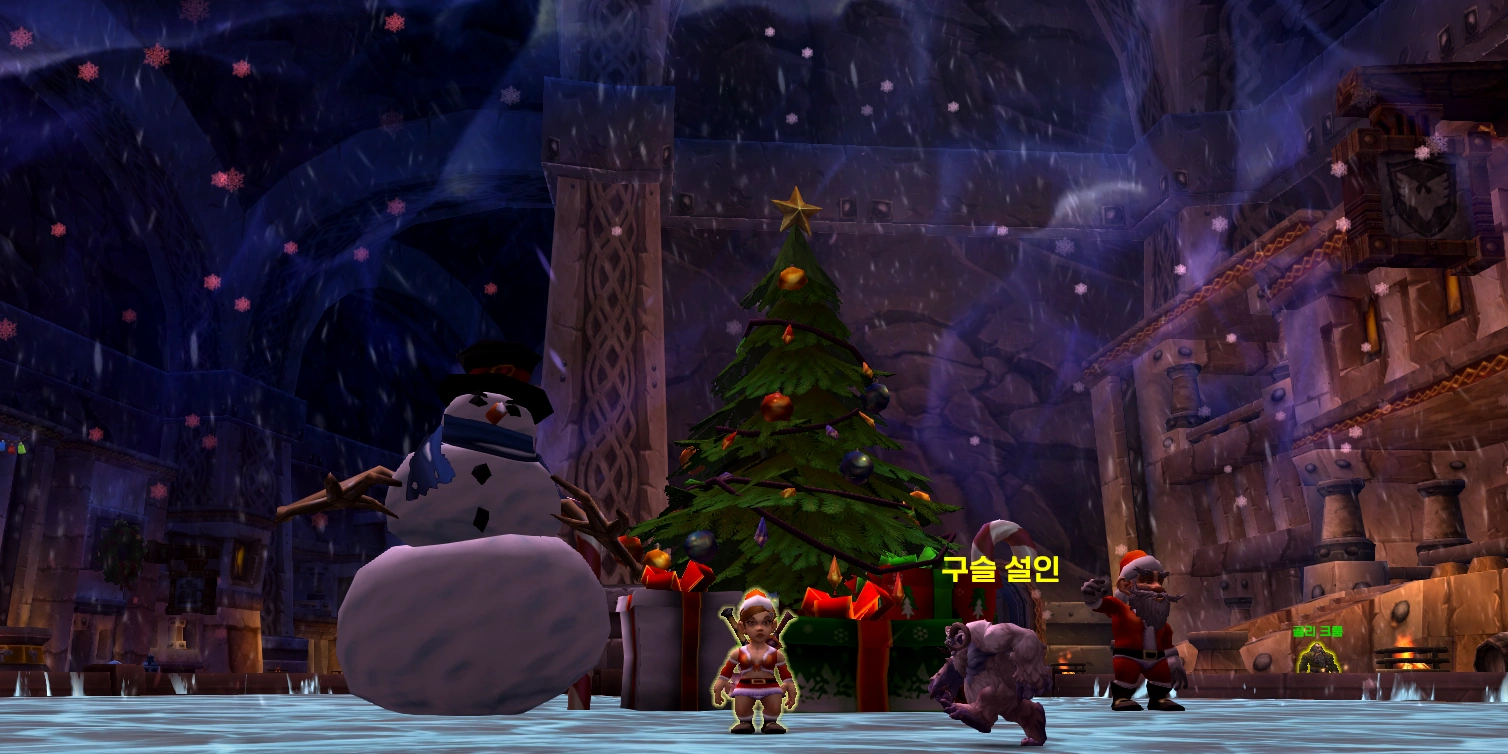
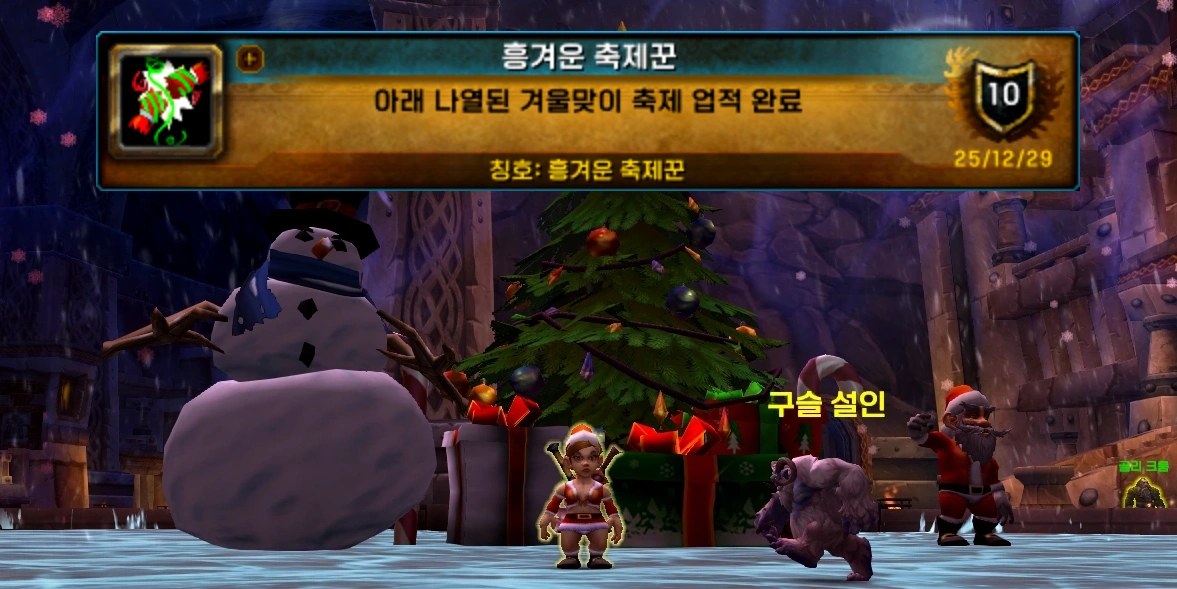
1

diff --git a/_posts/achievement/2025-12-15-winter.md b/_posts/achievement/2025-12-15-winter.md
@@ -5,7 +5,7 @@
 search: true
 # last_modified_at: # 2021-10-09 수정날짜
 
-title: "겨울맞이 축제 &#124; 업적"
+title: "겨울맞이 축제 &#124; 흥겨운 축제꾼 업적"
 categories: # 카테고리 설정
   - 업적 # Plater, Weakauras, WOWinfo, Github, 업적
 tags:
@@ -85,7 +85,29 @@ header:
 
 ## <span style="color:#0b89ff">■ </span>내 친구의 꼬마 도우미
 
--
+![이미지 설명](/assets/img/wow/achievement/2025-12-25-winter/5.webp)
+
+대도시에서 원더볼트 조작기사 옆 기계에 들어가서 변신합니다.
+
+```
+/way #85 50.22 62.09 원더볼트 조작기사 (호드 오그리마)
+```
+
+```
+/way #84 68.05 71.50 원더볼트 조작기사 (얼라 스톰윈드)
+```
+<br>
+<br>
+
+![이미지 설명](/assets/img/wow/achievement/2025-12-25-winter/5-1.webp)
+
+이 상태로 PVP로 50킬 하면 됩니다.
+<br>
+<br>
+
+![이미지 설명](/assets/img/wow/achievement/2025-12-25-winter/5-2.webp)
+
+저는 지인의 도움을 받아 PVP 분쟁지역에서 완료했습니다.
 <br>
 <br>
 
